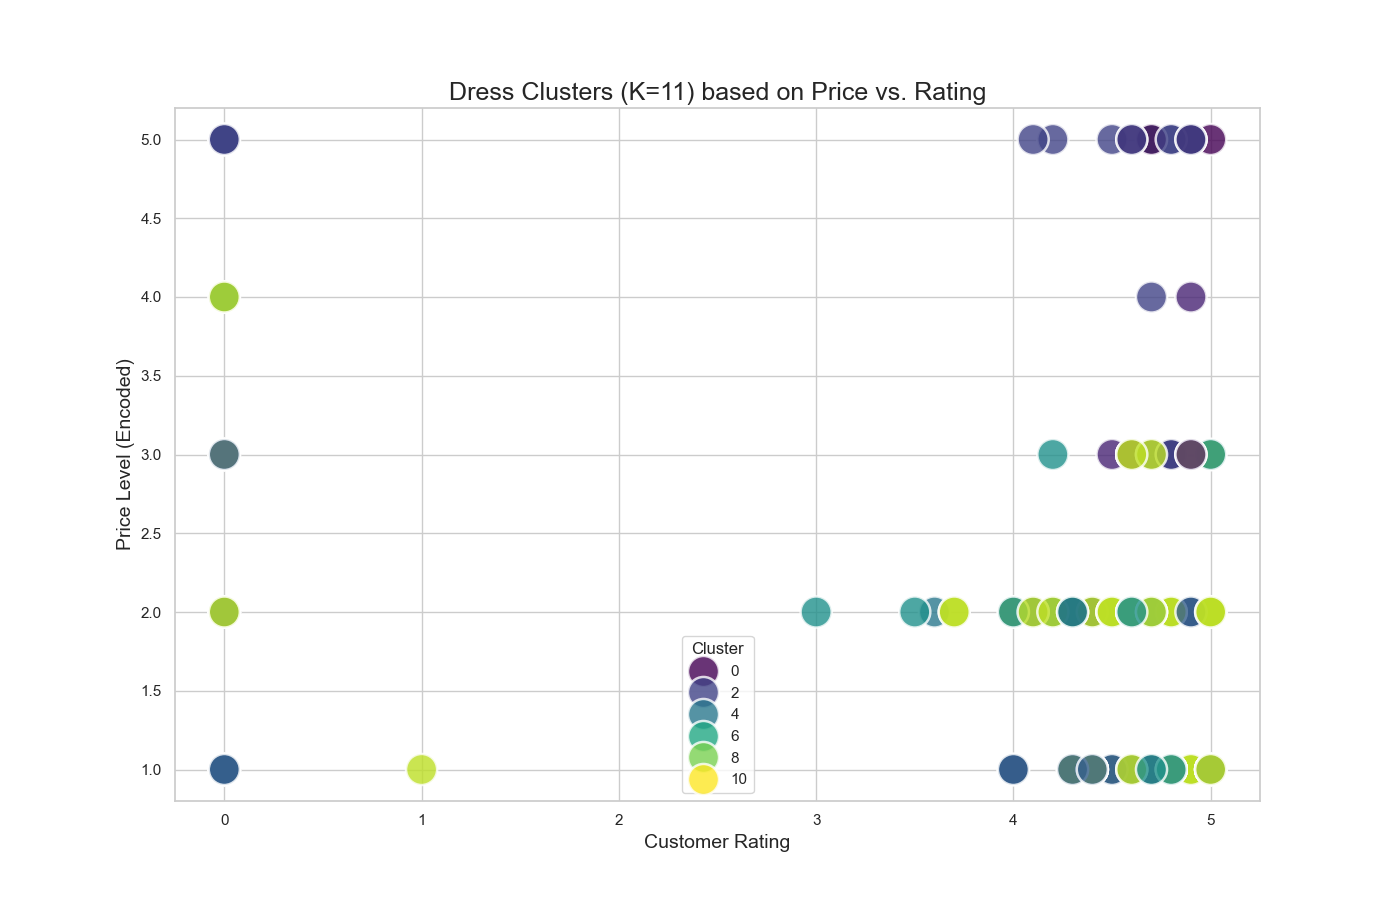
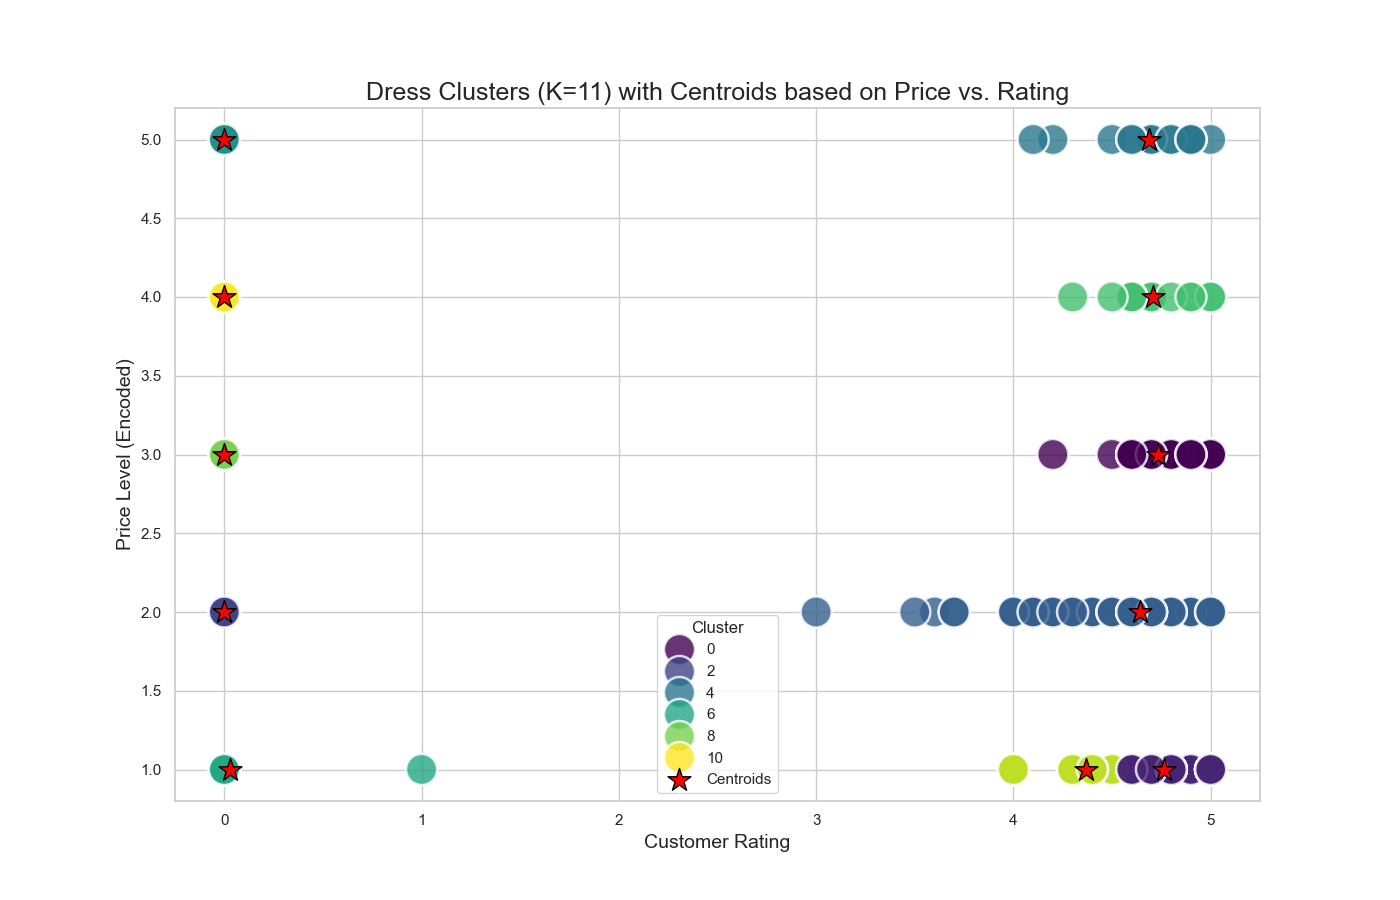
Update visualizations

diff --git a/k-means.py b/k-means.py
@@ -9,8 +9,18 @@ from sklearn.pipeline import Pipeline
 from sklearn.cluster import KMeans
 from sklearn.metrics import silhouette_score
 
+# --- get original centroids ---
+def get_original_centroids(scaler, kmeans):
+    # Get the centroid coordinates from the model (they are in the SCALED space)
+    scaled_centroids = kmeans.cluster_centers_
+    print("Scaled Centroid Coordinates:\n", scaled_centroids)
+    original_centroids = scaler.inverse_transform(scaled_centroids)
+    print("\nOriginal Scale Centroid Coordinates (Price, Rating):\n", original_centroids)
+
+    return original_centroids
+
 # --- data visualiation from clustering result ---
-def v_clustering(n_clusters, df_result, price_map):
+def v_clustering(n_clusters, df_result, price_map, original_centroids):
     plt.figure(figsize=(14, 9))
     sns.scatterplot(
         data=df_result,
@@ -22,7 +32,18 @@ def v_clustering(n_clusters, df_result, price_map):
         alpha=0.8        # Transparency of the points
     )
 
-    plt.title(f'Dress Clusters (K={n_clusters}) based on Price vs. Rating', fontsize=18)
+    # Plot the centroids on top of the scatter plot
+    plt.scatter(
+        x=original_centroids[:, 1],  # The second column is 'Rating'
+        y=original_centroids[:, 0],  # The first column is 'Price'
+        marker='*',  # Use a distinct marker (e.g., 'X')
+        s=300,  # Make the marker size large
+        c='red',  # Use a standout color like red
+        edgecolor='black',  # Add a black border for visibility
+        label='Centroids'  # Add a label for the legend
+    )
+
+    plt.title(f'Dress Clusters (K={n_clusters}) with Centroids based on Price vs. Rating', fontsize=18)
     plt.xlabel('Customer Rating', fontsize=14)
     plt.ylabel('Price Level (Encoded)', fontsize=14)
 
@@ -114,10 +135,8 @@ def encode(df_processed, categorical_features):
     X_2d = df_processed[['Price', 'Rating']].copy()
     return X_2d
 
-
 # --- Scaling ---
-def scaling(data):
-    scaler = StandardScaler()
+def scaling(scaller, data):
     X_scaled = scaler.fit_transform(data)
 
     print("\nFeature scaling complete.")
@@ -165,18 +184,18 @@ except FileNotFoundError:
     exit()
 
 # --- Initial Inspection ---
-# print("\nFirst 5 rows of the dataset:")
-# print(df.head())
+print("\nFirst 5 rows of the dataset:")
+print(df.head())
 
-# print("\nDataset Information (dtypes, non-null counts):")
-# df.info()
+print("\nDataset Information (dtypes, non-null counts):")
+df.info()
 
 # Step 1: Create a new DataFrame with only the relevant features
 # We use the df_processed which has Price and Rating cleaned and numerical
 
 # Identify categorical columns (excluding ID, Recommendation, and already processed ones)
-categorical_features = ['Style', 'Size', 'Season', 'NeckLine', 'SleeveLength', 'waiseline', 'Material',
-                        'FabricType', 'Decoration', 'Pattern Type']
+categorical_features = ['Style', 'Size', 'Season', 'NeckLine', 'SleeveLength', 'waiseline',
+                        'Material', 'FabricType', 'Decoration', 'Pattern Type']
 # Define the order of the categories
 price_map = {'Low': 1, 'low': 1, 'Average': 2, 'average': 2, 'Medium': 3, 'medium': 3, 'High': 4, 'high': 4, 'very-high': 5}
 
@@ -185,33 +204,26 @@ df_copy = df.copy()
 df_processed = training(df_copy, price_map)
 X = encode(df_processed, categorical_features)
 
-# X_2d = df_processed[['Price', 'Rating']].copy()
-#
-# print("\nShape of our new 2D dataset:", X_2d.shape)
-# print("First 5 rows of the 2D dataset:")
-# print(X_2d.head())
-
-# X = encode(X_2d, categorical_features)
-
-data_scaled = scaling(X)
+scaler = StandardScaler()
+data_scaled = scaling(scaler, X)
 
 # Clustering all in ranges
-# for k in k_range:
-#     print(f"Clustering #: {k}")
-#     kmeans = clustering(k, data_scaled)
-#     df_processed['Cluster'] = kmeans.labels_
-#     v_clustering(k, df_processed, price_map)
+for k in k_range:
+    print(f"Clustering #: {k}")
+    kmeans = clustering(k, data_scaled)
+    df_processed['Cluster'] = kmeans.labels_
+    v_clustering(k, df_processed, price_map, get_original_centroids(scaler, kmeans))
 
 # Visualization of methods
 # v_sse(k_range, data_scaled)
 # v_shilhouette(k_range, data_scaled)
 
-# # Clustering with optimal k
-kmeans = clustering(optimal_k, data_scaled)
-#
-# # Add the cluster labels to our processed (but not scaled) DataFrame
-df_processed['Cluster'] = kmeans.labels_
-v_clustering(optimal_k, df_processed, price_map)
-#
+# Clustering with optimal k
+# kmeans = clustering(optimal_k, data_scaled)
+
+# Add the cluster labels to our processed (but not scaled) DataFrame
+# df_processed['Cluster'] = kmeans.labels_
+# v_clustering(optimal_k, df_processed, price_map, get_original_centroids(scaler, kmeans))
+
 # # Create new datasheet with cluster label
-create_new_datasheet(kmeans)
+# create_new_datasheet(kmeans)
